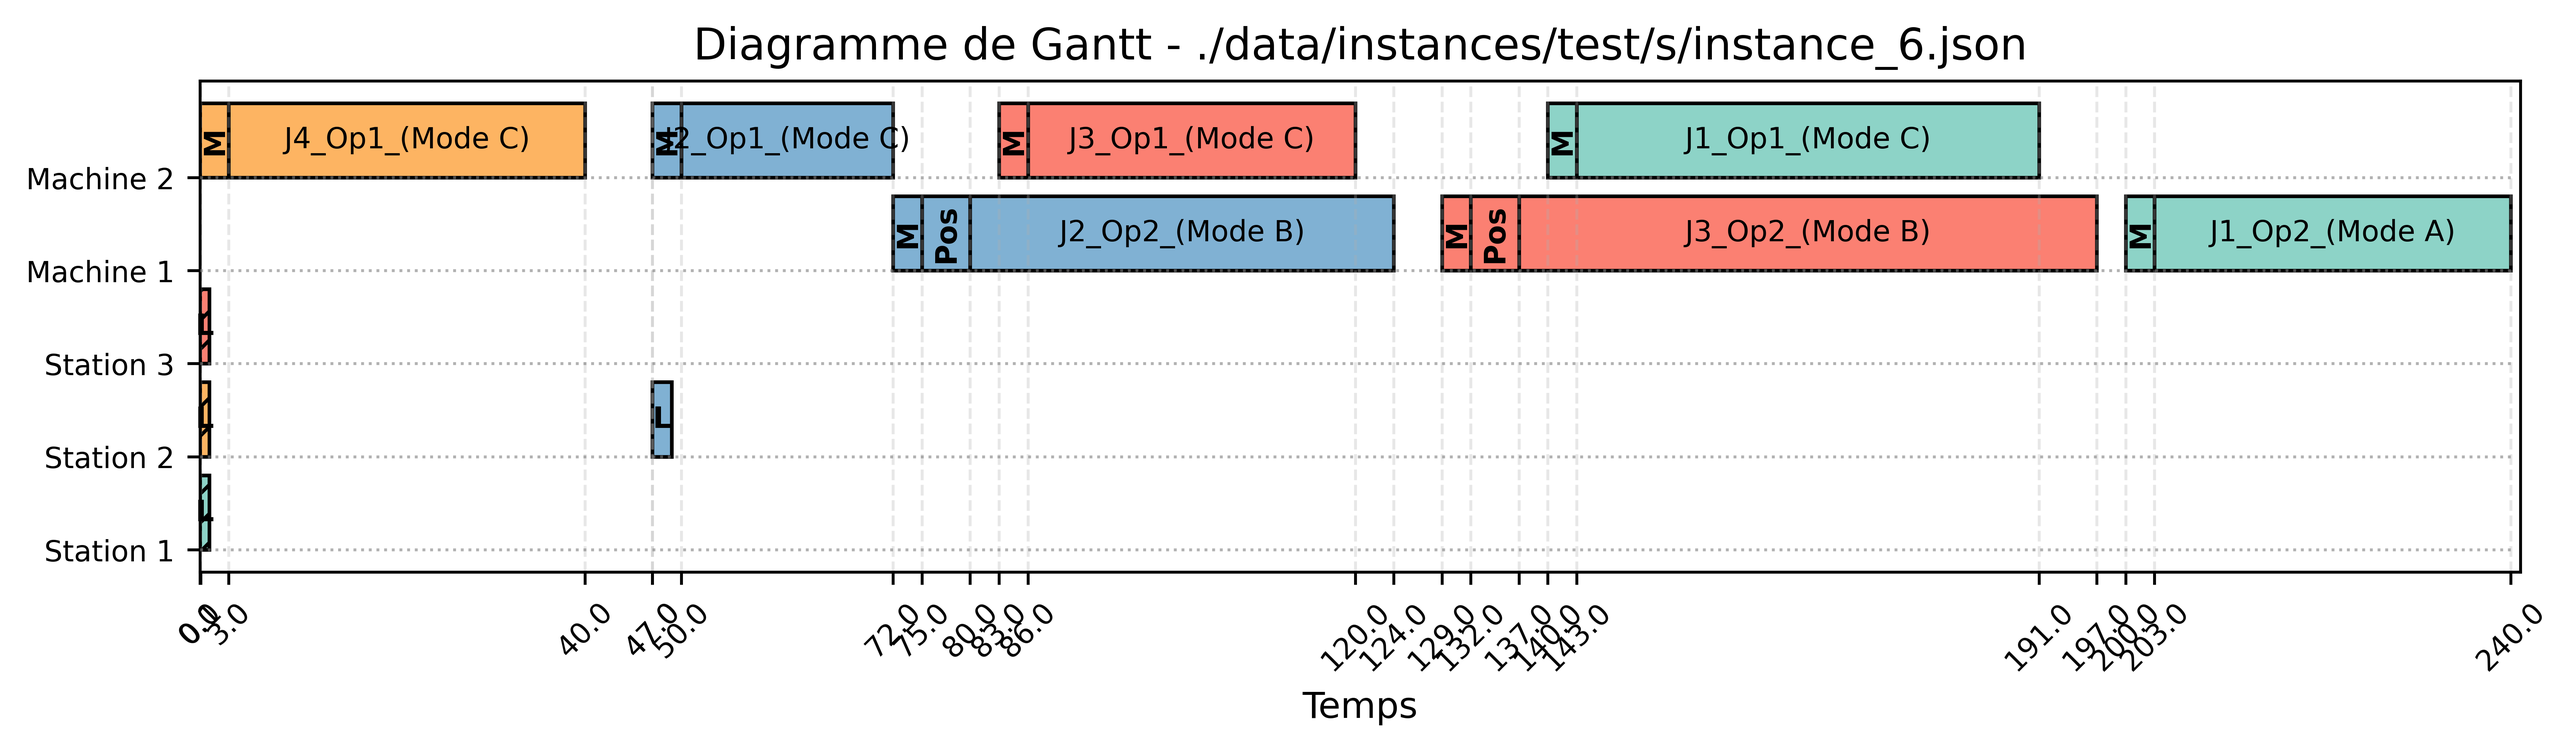
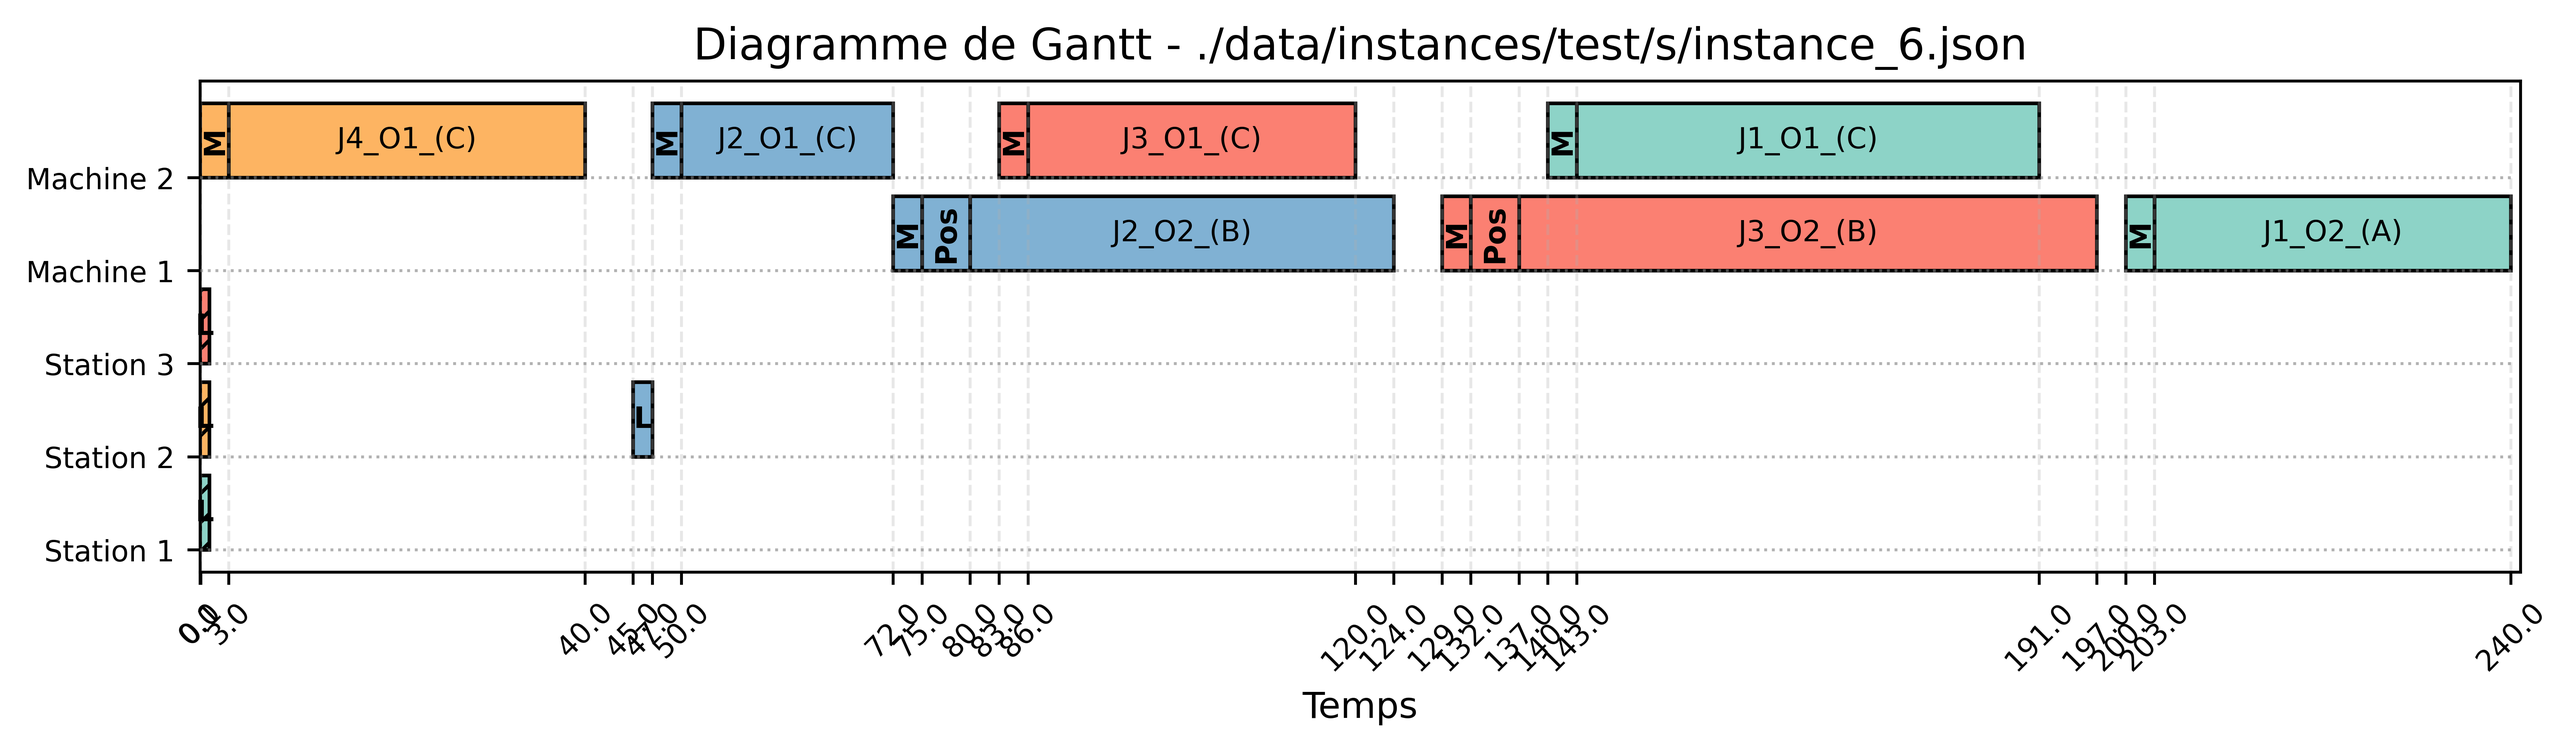
fix Loading display error in cp gantt

diff --git a/gantt/cp_gantt.py b/gantt/cp_gantt.py
@@ -64,14 +64,14 @@ def cp_gantt(path: str, instance: Instance, i: MathInstance, solver, instance_fi
             duration_weld = i.welding_time[j][o]
             end_weld = start_weld + duration_weld
             if op.type == MACHINE_2:
-                mode_str = "Mode C"
+                mode_str = "C"
             else:
-                mode_str = "Mode B" if modeB else "Mode A"
+                mode_str = "B" if modeB else "A"
             machine_level = "Machine 2" if op.type == MACHINE_2 else "Machine 1"
             
             #  0) Display processing time 
             tasks.append({
-                "label"   : f"J{j+1}_Op{o+1}_({mode_str})",
+                "label"   : f"J{j+1}_O{o+1}_({mode_str})",
                 "start"   : start_weld,
                 "end"     : end_weld,
                 "duration": duration_weld,
@@ -119,7 +119,7 @@ def cp_gantt(path: str, instance: Instance, i: MathInstance, solver, instance_fi
             # 4) Display L if t!=0
                 tasks.append({
                     "label"   : "L",               
-                    "start"   : load_end - 0.01,
+                    "start"   : load_end - 2,
                     "end"     : load_end,      
                     "duration": L,
                     "color"   : JOB_COLORS[j % len(JOB_COLORS)],
